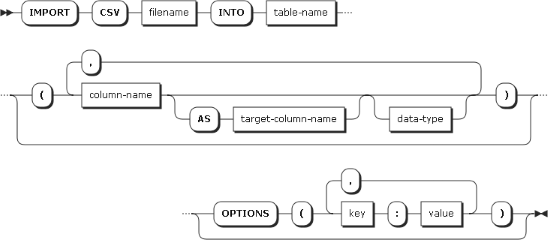
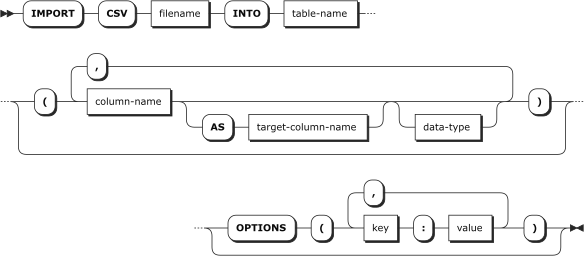
Higher quality syntax diagrams.

diff --git a/doc/throw-stmt.html b/doc/throw-stmt.html
@@ -5,6 +5,6 @@
 <h1><code>THROW</code> Statement
 </h1>Throws an error, causing code execution to jump to an enclosing <code>CATCH</code> block. There are no restrictions on what the three parameters must be. They are returned as-is from the <a href="error-number-func.html"><code>ERROR_NUMBER</code></a>, <a href="error-message-func.html"><code>ERROR_MESSAGE</code></a>, and <a href="error-state-func.html"><code>ERROR_STATE</code></a> functions.&nbsp;The parameterless version of <code>THROW</code> causes an error to be raised without changing the existing values of&nbsp;<a href="error-number-func.html"><code>ERROR_NUMBER</code></a>, <a href="error-message-func.html"><code>ERROR_MESSAGE</code></a>, and <a href="error-state-func.html"><code>ERROR_STATE</code></a>. This allows a <code>CATCH</code> block to re-throw an error without changing it.<h2>Syntax</h2>
 <p>
-<span style="font-family: monospace;"><img style="width: 467px; height: 51px;" alt="Syntax of the THROW statement." src="art/doc-throw-stmt.png"></span><br></p>
+<span style="font-family: monospace;"><img style="width: 498px; height: 54px;" alt="Syntax for the THROW statement" src="art/doc-throw-stmt.png"></span><br></p>
 <h2>Arguments</h2>
 <ul class="args"><li><span style="font-weight: bold;">error-number</span>, <span style="font-weight: bold;">error-messge</span>, <span style="font-weight: bold;">error-state </span>(any expression, optional)<br>The values to be returned from the&nbsp;<a href="error-number-func.html"><code>ERROR_NUMBER</code></a>, <a href="error-message-func.html"><code>ERROR_MESSAGE</code></a>, and <a href="error-state-func.html"><code>ERROR_STATE</code></a> functions. If not provided, then the values from the last thrown error are retained.</li></ul><h2>Examples</h2><ul class="examples"><li><code>THROW 1, 'Oops', 0</code><br>Throws an error such that <code>ERROR_NUMBER()</code> returns 1, <code>ERROR_MESSAGE()</code> returns "Oops", and <code>ERROR_STATE()</code> returns 0.</li><li><code>THROW;</code><br>Re-throws the last thrown error without changing it.</li></ul></body></html>

diff --git a/doc/while-stmt.html b/doc/while-stmt.html
@@ -1,12 +1,10 @@
 <!DOCTYPE HTML PUBLIC "-//W3C//DTD HTML 4.01 Transitional//EN">
 <html><head>
-<meta http-equiv="content-type" content="text/html; charset=UTF-8"><title>WHILE Statement</title>
-
-</head>
+<meta http-equiv="content-type" content="text/html; charset=UTF-8"><title>WHILE Statement</title></head>
 <body>
 <h1><code>WHILE</code> Statement
 </h1>Repeatedly executes the provided&nbsp;statements<span style="font-style: italic;"></span> as long as the <span style="font-style: italic;">condition</span> expression evaluates to the integer 1.<br><br>The loop may be terminated without regard to the expression by using the <code>BREAK</code> statement. The loop may be restarted by using the <code>CONTINUE</code> statement.<h2>Syntax</h2>
 <p>
-<img style="width: 389px; height: 86px;" alt="Syntax for the WHILE statement." src="art/doc-while-stmt.png"><br></p>
+<img style="width: 414px; height: 91px;" alt="Syntax for the WHILE statement" src="art/doc-while-stmt.png"><br></p>
 <h2>Arguments</h2>
 <ul class="args"><li><span style="font-weight: bold;">condition</span> (integer, 0 or 1)<br>If this expression evaluates to 1, then the <span style="font-style: italic;">stmt</span> statements are executed. &nbsp;Otherwise, the loop is terminated.</li><li><span style="font-weight: bold;">stmt</span> (statement)<br>The statements to execute if the condition is 1. &nbsp;If more than one <span style="font-style: italic;">stmt</span> is desired, the <code>BEGIN</code> and <code>END</code> keywords must be used.<span style="font-weight: bold;"></span><br></li></ul><h2>Examples</h2><ul class="examples"><li><code>DECLARE @counter = 1;<br>WHILE @counter &lt;= 10 BEGIN<br>&nbsp; &nbsp; PRINT @counter;<br>&nbsp; &nbsp; SET @counter = @counter + 1;<br>END</code><br>Prints the numbers 1 to 10 in increasing order.</li></ul></body></html>

diff --git a/doc/execute-stmt.html b/doc/execute-stmt.html
@@ -5,7 +5,7 @@
 <h1><code>EXECUTE</code> Statement
 </h1>Executes the script called <span style="font-style: italic;">script-name</span>, which may be enclosed in quotes if the script name contains spaces or special characters. If a <span style="font-style: italic;">result-variable</span> is specified, then that variable will contain the scalar value, if any, returned from the script. The <span style="font-style: italic;">result-variable</span> does not need to be declared beforehand; the <code>EXECUTE</code> statement itself will declare the variable if it does not exist. If the script does not call <code>RETURN</code>, then the return value is <code>NULL</code>.<br><br>A script may define its own input parameters using the <code>DECLARE PARAMETER</code> statement. If parameters are present in the script, then any <code>EXECUTE</code> statement that calls it must provide argument values for those parameters. The exception is if the <code>DECLARE PARAMETER</code> statement includes a default value. If so, then the <code>EXECUTE</code> statement may omit that parameter, or it may use the special keyword <code>DEFAULT</code>; in both cases, the default value defined by the <code>DECLARE PARAMETER</code> statement is used. <br><h2>Syntax</h2>
 <p>
-<img style="width: 380px; height: 188px;" alt="Syntax for the EXECUTE statement." src="art/doc-execute-stmt.png"><br></p>
+<img style="width: 405px; height: 200px;" alt="Syntax for the EXECUTE statement" src="art/doc-execute-stmt.png"><br></p>
 <h2>Arguments</h2>
 <ul class="args"><li><span style="font-weight: bold;">result-variable</span> (variable name)<br>If provided, this is a variable name beginning with an at sign (<code>@</code>), dollar sign (<code>$</code>),
 or colon (<code>:</code>)

diff --git a/doc/if-stmt.html b/doc/if-stmt.html
@@ -1,14 +1,12 @@
 <!DOCTYPE HTML PUBLIC "-//W3C//DTD HTML 4.01 Transitional//EN">
 <html><head>
-<meta http-equiv="content-type" content="text/html; charset=UTF-8"><title>IF Statement</title>
-
-</head>
+<meta http-equiv="content-type" content="text/html; charset=UTF-8"><title>IF Statement</title></head>
 <body>
 <h1><code>IF</code> Statement
 </h1>
     Takes one code path or the other based on an SQL expression.  The <span style="font-style: italic;">condition</span> expression must evaluate to the integer 0 or 1.<h2>Syntax</h2>
 <p>
-<img style="width: 392px; height: 206px;" alt="Syntax for the IF statement." src="art/doc-if-stmt.png"><br></p>
+<img style="width: 418px; height: 219px;" alt="Syntax for the IF statement" src="art/doc-if-stmt.png"><br></p>
 <h2>Arguments</h2>
 <ul class="args"><li><span style="font-weight: bold;">condition</span> (integer, 0 or 1)<br>If this expression evaluates to 1, then the <span style="font-style: italic;">stmt-if-true</span> statements are executed. &nbsp;Otherwise, the <span style="font-style: italic;">stmt-if-false</span> statements are executed.</li><li><span style="font-weight: bold;">stmt-if-true</span> (statement)<br>The statements to execute if the condition is 1. &nbsp;If more than one <span style="font-style: italic;">stmt-if-true</span> statement is desired, the <code>BEGIN</code> and <code>END</code> keywords must be used.</li><li><span style="font-weight: bold;">stmt-if-false</span> (statement)<br>The statements to execute if the
 condition is 0. &nbsp;If more than one <span style="font-style: italic;">stmt-if-false</span> statement is desired,

diff --git a/doc/declare-stmt.html b/doc/declare-stmt.html
@@ -1,8 +1,6 @@
 <!DOCTYPE HTML PUBLIC "-//W3C//DTD HTML 4.01 Transitional//EN">
 <html><head>
-<meta http-equiv="content-type" content="text/html; charset=UTF-8"><title>DECLARE Statement</title>
-
-</head>
+<meta http-equiv="content-type" content="text/html; charset=UTF-8"><title>DECLARE Statement</title></head>
 <body>
 <h1><code>DECLARE</code> Statement
 </h1>
@@ -29,7 +27,7 @@ convention of allowing any data type to be stored.
 </p>
 <h2>Syntax</h2>
 <p>
-<img style="width: 473px; height: 51px;" alt="Syntax for the DECLARE statement." src="art/doc-declare-stmt.png"><br></p>
+<img style="width: 504px; height: 54px;" alt="Syntax for the DECLARE statement." src="art/doc-declare-stmt.png"><br></p>
 <h2>Arguments</h2>
 <ul class="args"><li><code style="font-weight: bold;">PARAMETER</code> (keyword)<br>If specified, then the variable is a parameter to the script, for which callers using the <code>EXECUTE</code> statement can specify an argument value. If the <span style="font-style: italic;">initial-value</span> argument is specified, then the parameter is optional and may be omitted by <code>EXECUTE</code> callers. If no <span style="font-style: italic;">initial-value</span> is specified, then callers must provide an argument value for this parameter.</li><li><span style="font-weight: bold;">variable-name</span> (identifier)<br>A name beginning with an at sign (<code>@</code>), dollar sign (<code>$</code>),
 or colon (<code>:</code>).&nbsp;The

diff --git a/doc/set-stmt.html b/doc/set-stmt.html
@@ -1,15 +1,13 @@
 <!DOCTYPE HTML PUBLIC "-//W3C//DTD HTML 4.01 Transitional//EN">
 <html><head>
-<meta http-equiv="content-type" content="text/html; charset=UTF-8"><title>SET Statement</title>
-
-</head>
+<meta http-equiv="content-type" content="text/html; charset=UTF-8"><title>SET Statement</title></head>
 <body>
 <h1><code>SET</code> Statement
 </h1>Assigns a new value to a previously declared variable. The new value
 does not need to be of the same type as the previous value. It is an
 error to assign a value to an undeclared variable. Use the <a href="declare-stmt.html"><code>DECLARE</code></a> statement to declare variables.<h2>Syntax</h2>
 <p>
-<img style="width: 291px; height: 27px;" alt="Syntax for the SET statement." src="art/doc-set-stmt.png"><br></p>
+<img style="width: 310px; height: 29px;" alt="Syntax for the SET statement" src="art/doc-set-stmt.png"><br></p>
 <h2>Arguments</h2>
 <ul class="args"><li><span style="font-weight: bold;">variable-name</span> (identifier)<br>A name beginning with an at sign (<code>@</code>), dollar sign (<code>$</code>),
 or colon (<code>:</code>).&nbsp;The name must have been previously declared in this script.</li><li><span style="font-weight: bold;">new-value</span> (expression)<br>The value to assign to the variable. It may be a scalar expression or a parentheses-enclosed <code>SELECT</code> statement.</li></ul><h2>Examples</h2>

diff --git a/doc/return-stmt.html b/doc/return-stmt.html
@@ -5,6 +5,6 @@
 <h1><code>RETURN</code> Statement
 </h1>&nbsp;Ends script execution immediately. If an <span style="font-style: italic;">expression</span> is provided, then that value is returned to the caller. &nbsp;If no expression is provided, then <code>NULL</code> is returned.<br><h2>Syntax</h2>
 <p>
-<img style="width: 218px; height: 51px;" alt="Syntax for the RETURN statement." src="art/doc-return-stmt.png"><br></p>
+<img style="width: 232px; height: 54px;" alt="Syntax for the RETURN statement" src="art/doc-return-stmt.png"><br></p>
 <h2>Arguments</h2>
 <ul class="args"><li><span style="font-weight: bold;">expression </span>(any expression, optional)<br>The value to be returned to the calling script, if any.</li></ul><h2>Examples</h2><ul class="examples"><li><code>RETURN;</code><br>Ends the script and returns <code>NULL</code>.</li><li><code>RETURN 1 + 2;</code><br>Returns 3.</li></ul></body></html>

diff --git a/doc/print-stmt.html b/doc/print-stmt.html
@@ -5,6 +5,6 @@
 <h1><code>PRINT</code> Statement
 </h1>Prints the <span style="font-style: italic;">expression</span> to the script or console output.<br><h2>Syntax</h2>
 <p>
-<img style="width: 171px; height: 27px;" alt="Syntax for the PRINT statement." src="art/doc-print-stmt.png"><br></p>
+<img style="width: 182px; height: 29px;" alt="Syntax for the PRINT statement" src="art/doc-print-stmt.png"><br></p>
 <h2>Arguments</h2>
 <ul class="args"><li><span style="font-weight: bold;">expression </span>(any expression)<br>The value to be printed.</li></ul><h2>Examples</h2><ul class="examples"><li><code>PRINT 5;</code><br>Prints 5.</li><li><code>PRINT 1 + 2;</code><br>Prints 3.</li><li><code>PRINT 'Hello world';</code><br>Prints "Hello world".</li><li><code>PRINT (SELECT COUNT(*) FROM mytable);</code><br>Prints the number of rows in <code>mytable</code>.</li></ul></body></html>

diff --git a/doc/import-csv-stmt.html b/doc/import-csv-stmt.html
@@ -1,14 +1,8 @@
 <!DOCTYPE HTML PUBLIC "-//W3C//DTD HTML 4.01 Transitional//EN">
-<html>
-<head>
+<html><head>
 
   <meta http-equiv="content-type" content="text/html; charset=UTF-8">
-  <title>IMPORT CSV Statement</title>
-
-
-</head>
-
-
+  <title>IMPORT CSV Statement</title></head>
 
 <body>
 
@@ -24,7 +18,7 @@ wizard accessed via the Import menu.
 <h2>Syntax</h2>
 
 <p>
-<img style="width: 548px; height: 240px;" alt="Syntax for the IMPORT CSV statement." src="art/doc-import-csv-stmt.png"></p>
+<img style="width: 584px; height: 256px;" alt="Syntax for the IMPORT CSV statement" src="art/doc-import-csv-stmt.png"><br></p>
 
 <h2>Arguments</h2>
 
@@ -238,5 +232,4 @@ to be dynamically generated or otherwise determined at script runtime. </li>
 
 <br>
 
-</body>
-</html>
+</body></html>

diff --git a/doc/export-txt-stmt.html b/doc/export-txt-stmt.html
@@ -1,14 +1,8 @@
 <!DOCTYPE HTML PUBLIC "-//W3C//DTD HTML 4.01 Transitional//EN">
-<html>
-<head>
+<html><head>
 
   <meta http-equiv="content-type" content="text/html; charset=UTF-8">
-  <title>EXPORT TXT Statement</title>
-
-
-</head>
-
-
+  <title>EXPORT TXT Statement</title></head>
 
 <body>
 
@@ -24,7 +18,7 @@ together with no separator. The text is not escaped or quoted.
 <h2>Syntax</h2>
 
 <p>
-<img style="width: 458px; height: 155px;" alt="Syntax for the EXPORT TXT statement." src="art/doc-export-txt-stmt.png"></p>
+<img style="width: 488px; height: 165px;" alt="Syntax for the EXPORT TXT statement" src="art/doc-export-txt-stmt.png"><br></p>
 
 <h2>Arguments</h2>
 
@@ -92,5 +86,4 @@ Overwrite "MyFile.txt" if it already exists. </li>
 
 <br>
 
-</body>
-</html>
+</body></html>

diff --git a/doc/import-txt-stmt.html b/doc/import-txt-stmt.html
@@ -1,14 +1,8 @@
 <!DOCTYPE HTML PUBLIC "-//W3C//DTD HTML 4.01 Transitional//EN">
-<html>
-<head>
+<html><head>
 
   <meta http-equiv="content-type" content="text/html; charset=UTF-8">
-  <title>IMPORT TXT Statement</title>
-
-
-</head>
-
-
+  <title>IMPORT TXT Statement</title></head>
 
 <body>
 
@@ -25,7 +19,7 @@ contains the text of the line.
 <h2>Syntax</h2>
 
 <p>
-<img style="width: 420px; height: 216px;" alt="Syntax for the IMPORT TXT statement." src="art/doc-import-txt-stmt.png"></p>
+<img style="width: 448px; height: 230px;" alt="Syntax for the IMPORT TXT statement" src="art/doc-import-txt-stmt.png"><br></p>
 
 <h2>Arguments</h2>
 
@@ -133,5 +127,4 @@ Only the first 10 lines of "MyFile.txt" are read into <code>mytable</code>.
 
 <br>
 
-</body>
-</html>
+</body></html>

diff --git a/doc/try-catch-stmt.html b/doc/try-catch-stmt.html
@@ -13,7 +13,7 @@ block may use the <a href="error-number-func.html"><code>ERROR_NUMBER</code></a>
 and <a href="error-state-func.html"><code>ERROR_STATE</code></a> functions to access the thrown error information.<br>
 <h2>Syntax</h2>
 <p>
-<span style="font-family: monospace;"><img style="width: 588px; height: 102px;" alt="Syntax for the TRY/CATCH statement." src="art/doc-try-stmt.png"></span><br>
+<span style="font-family: monospace;"><img style="width: 627px; height: 109px;" alt="Syntax for the TRY/CATCH statement" src="art/doc-try-stmt.png"></span><br>
 </p>
 <h2>Arguments</h2>
 <ul class="args">
